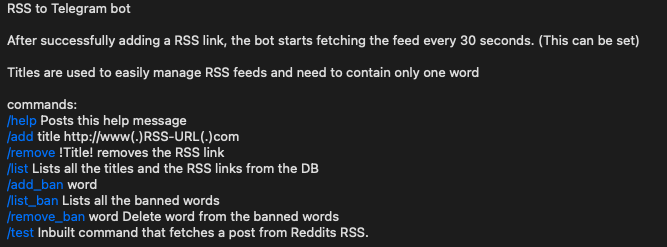
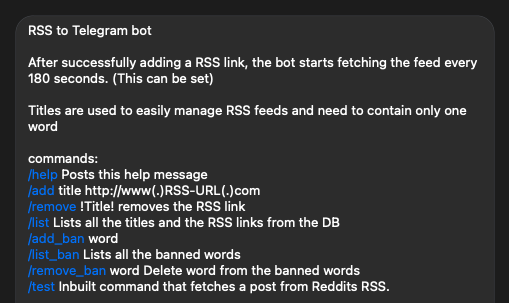
update readme

Changed region(s): [[0.0, 0.085, 0.9725, 0.9636], [0.0, 0.0, 0.2063, 0.0567]]

diff --git a/README.md b/README.md
@@ -1,14 +1,16 @@
-![RSSTT](img/rsstt.png)
+![RSSTT](https://github.com/gungoren/RSS-to-Telegram-Bot-Go/raw/master/img/rsstt.png)
 
 # RSS to Telegram bot with golang
 
+> Note: This repo is migrated from [Python version](https://github.com/gungoren/RSS-to-Telegram-Bot/)
+
 A self-hosted telegram golang bot that dumps posts from RSS feeds to a telegram chat. This script was created because all the third party services were unreliable.
 
-![Image of help menu](img/telegram.png)
+![Image of help menu](https://github.com/gungoren/RSS-to-Telegram-Bot-Go/raw/master/img/telegram.png)
 
 ### Docker
 
-For the docker image go to: https://hub.docker.com/r/bokker/rss.to.telegram/
+For the docker image go to: https://hub.docker.com/r/mehgungoren/rss.to.telegram/
 
 ### Installation
 
@@ -40,13 +42,19 @@ send /help to the bot to get this message:
 >
 > commands:
 >
-> **/add** title http://www(.)URL(.)com
->
 > **/help** Shows this text
+>
+> **/add** title http://www(.)URL(.)com
 >
 > **/remove** !Title! removes the RSS link
 >
 > **/list** Lists all the titles and the RSS links from the DB
+>
+> **/add_ban** word add word to ban list
+>
+> **/remove_ban** word removes word from ban word list
+>
+> **/list_ban** Lists all the banned words from the DB
 >
 > **/test** Inbuilt command that fetches a post from Reddits RSS.
 >
@@ -61,10 +69,10 @@ If the bot is set to for example 5 minutes and one feed manages to get 2 new pos
 ```
 docker create \
   --name=rss.to.telegram \
-  -e DELAY=60 \
-  -e TOKEN=InsertToken \
-  -e CHATID=InsertChatID \
+  -e DELAY=180 \
+  -e TOKEN=<TOKEN> \
+  -e CHATID=<CHATID> \
   -v /path/to/host/config:/config \
   --restart unless-stopped \
-  bokker/rss.to.telegram
+  mehgungoren/rss.to.telegram
 ```
